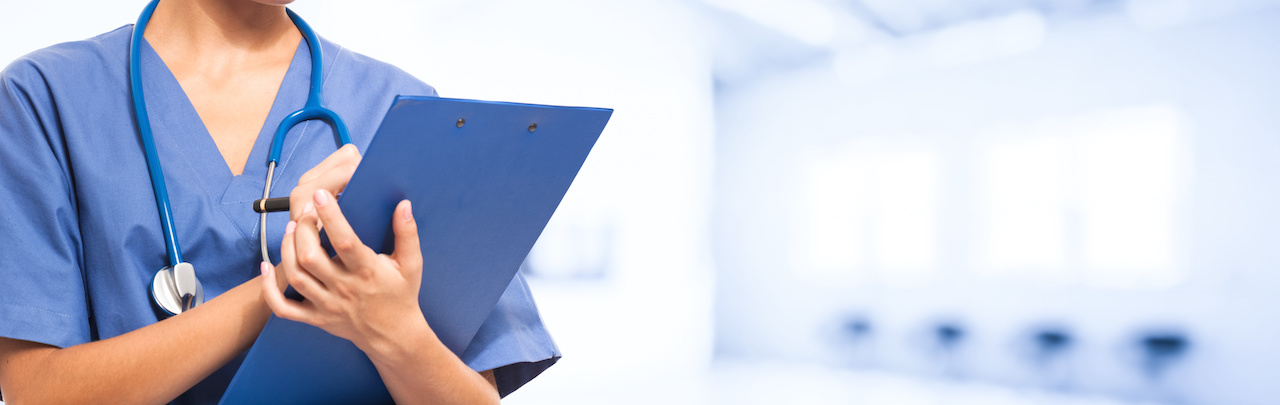
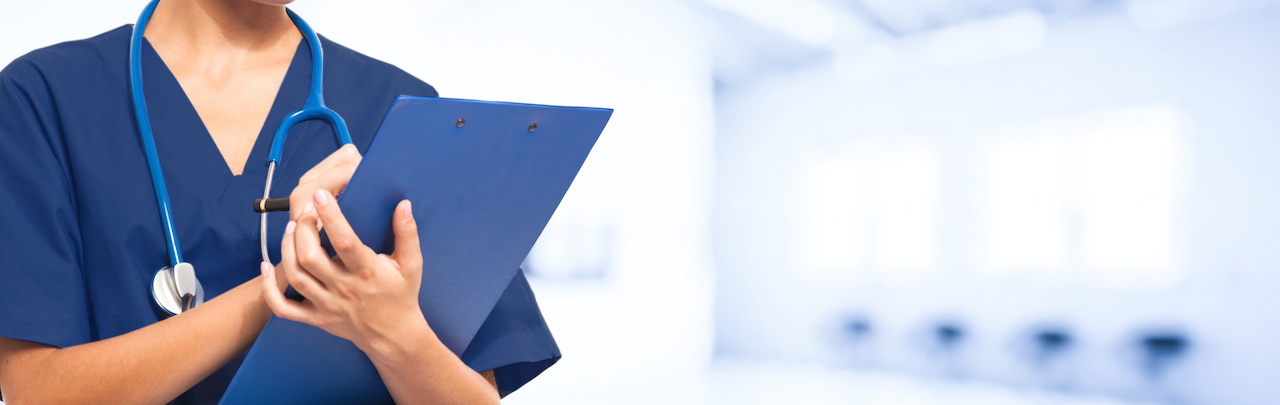
[ADD] cambio de color en portada y regional_council

Changed region(s): [[0.0, 0.0593, 0.3438, 0.8593], [0.3438, 0.6815, 0.4375, 0.9778]]

diff --git a/app/assets/stylesheets/regional_councils.css.scss b/app/assets/stylesheets/regional_councils.css.scss
@@ -1,0 +1,3 @@
+// Place all the styles related to the regional_councils controller here.
+// They will automatically be included in application.css.
+// You can use Sass (SCSS) here: http://sass-lang.com/

diff --git a/app/controllers/regional_councils_controller.rb b/app/controllers/regional_councils_controller.rb
@@ -1,0 +1,47 @@
+class RegionalCouncilsController < ApplicationController
+  before_action :set_regional_council, only: [:show, :edit, :update, :destroy]
+
+  respond_to :html
+
+  def index
+    @regional_councils = RegionalCouncil.all
+    respond_with(@regional_councils)
+  end
+
+  def show
+    respond_with(@regional_council)
+  end
+
+  def new
+    @regional_council = RegionalCouncil.new
+    respond_with(@regional_council)
+  end
+
+  def edit
+  end
+
+  def create
+    @regional_council = RegionalCouncil.new(regional_council_params)
+    @regional_council.save
+    respond_with(@regional_council)
+  end
+
+  def update
+    @regional_council.update(regional_council_params)
+    respond_with(@regional_council)
+  end
+
+  def destroy
+    @regional_council.destroy
+    respond_with(@regional_council)
+  end
+
+  private
+    def set_regional_council
+      @regional_council = RegionalCouncil.find(params[:id])
+    end
+
+    def regional_council_params
+      params.require(:regional_council).permit(:nombre, :cargo, :email, :fono, :office_id, :person_id)
+    end
+end

diff --git a/db/schema.rb b/db/schema.rb
@@ -11,7 +11,7 @@
 #
 # It's strongly recommended that you check this file into your version control system.
 
-ActiveRecord::Schema.define(version: 20161111182705) do
+ActiveRecord::Schema.define(version: 20161115151624) do
 
   # These are extensions that must be enabled in order to support this database
   enable_extension "plpgsql"
@@ -385,6 +385,20 @@ ActiveRecord::Schema.define(version: 20161111182705) do
     t.datetime "updated_at"
     t.text     "web"
   end
+
+  create_table "regional_councils", force: true do |t|
+    t.string   "nombre"
+    t.string   "cargo"
+    t.string   "email"
+    t.string   "fono"
+    t.integer  "office_id"
+    t.integer  "person_id"
+    t.datetime "created_at"
+    t.datetime "updated_at"
+  end
+
+  add_index "regional_councils", ["office_id"], name: "index_regional_councils_on_office_id", using: :btree
+  add_index "regional_councils", ["person_id"], name: "index_regional_councils_on_person_id", using: :btree
 
   create_table "regions", force: true do |t|
     t.string   "codigo"

diff --git a/app/models/income.rb b/app/models/income.rb
@@ -59,7 +59,7 @@ class Income < ActiveRecord::Base
 
     workplace = Workplace.find(self.workplace_id)
 
-    if workplace.office.codigo != "VPO"
+    # if workplace.office.codigo != "VPO"
       head_daily = HeadDaily.new
       head_daily.numero = HeadDaily.next_ingreso
       head_daily.user_id = self.user_id
@@ -123,7 +123,7 @@ class Income < ActiveRecord::Base
         daily.por = "Pago cuotas: #{workplace.nombre}"
       end  
       daily.save
-    end  
+    # end  
 
 
   end 

diff --git a/db/migrate/20161115151624_create_regional_councils.rb b/db/migrate/20161115151624_create_regional_councils.rb
@@ -1,0 +1,14 @@
+class CreateRegionalCouncils < ActiveRecord::Migration
+  def change
+    create_table :regional_councils do |t|
+      t.string :nombre
+      t.string :cargo
+      t.string :email
+      t.string :fono
+      t.references :office, index: true
+      t.references :person, index: true
+
+      t.timestamps
+    end
+  end
+end

diff --git a/app/models/office.rb b/app/models/office.rb
@@ -2,6 +2,7 @@ class Office < ActiveRecord::Base
   has_many :workplaces
   has_many :expenses
   has_many :incomes
+  has_many :regional_counsil
   has_many :people, :through => :workplaces
   has_many :fees, :through => :workplaces
 

diff --git a/config/routes.rb b/config/routes.rb
@@ -1,6 +1,8 @@
 Enfermera::Application.routes.draw do
 
 
+  resources :regional_councils
+
   resources :magazines
 
   get "welcome/index"

diff --git a/app/models/regional_council.rb b/app/models/regional_council.rb
@@ -1,0 +1,4 @@
+class RegionalCouncil < ActiveRecord::Base
+  belongs_to :office
+  belongs_to :person
+end

diff --git a/app/helpers/regional_councils_helper.rb b/app/helpers/regional_councils_helper.rb
@@ -1,0 +1,2 @@
+module RegionalCouncilsHelper
+end
